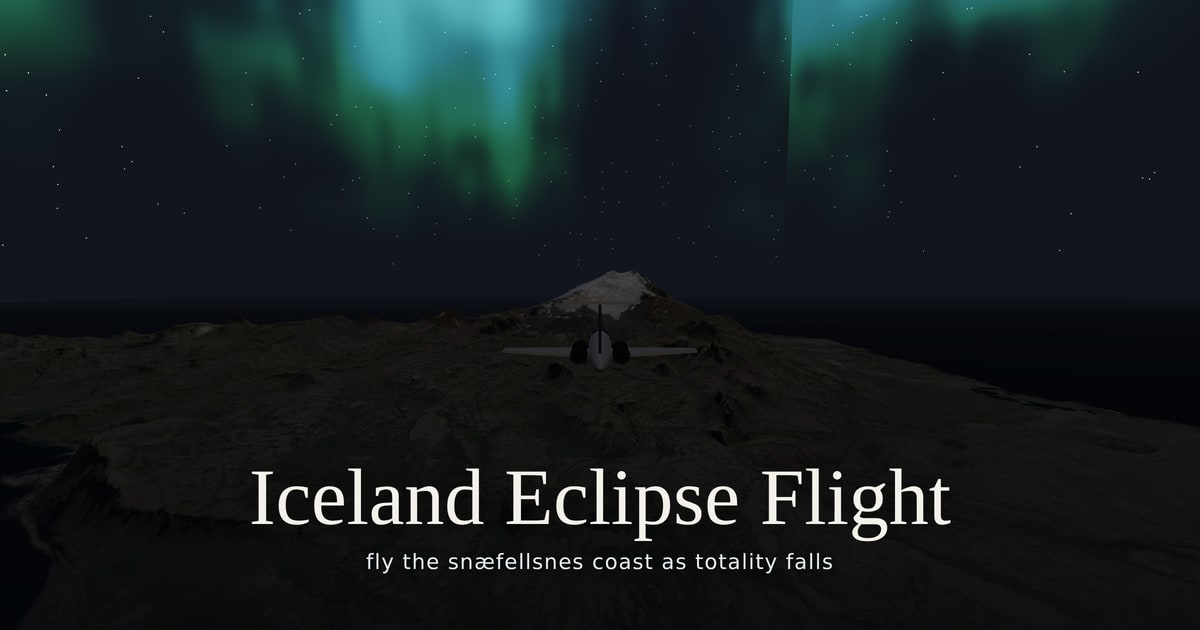
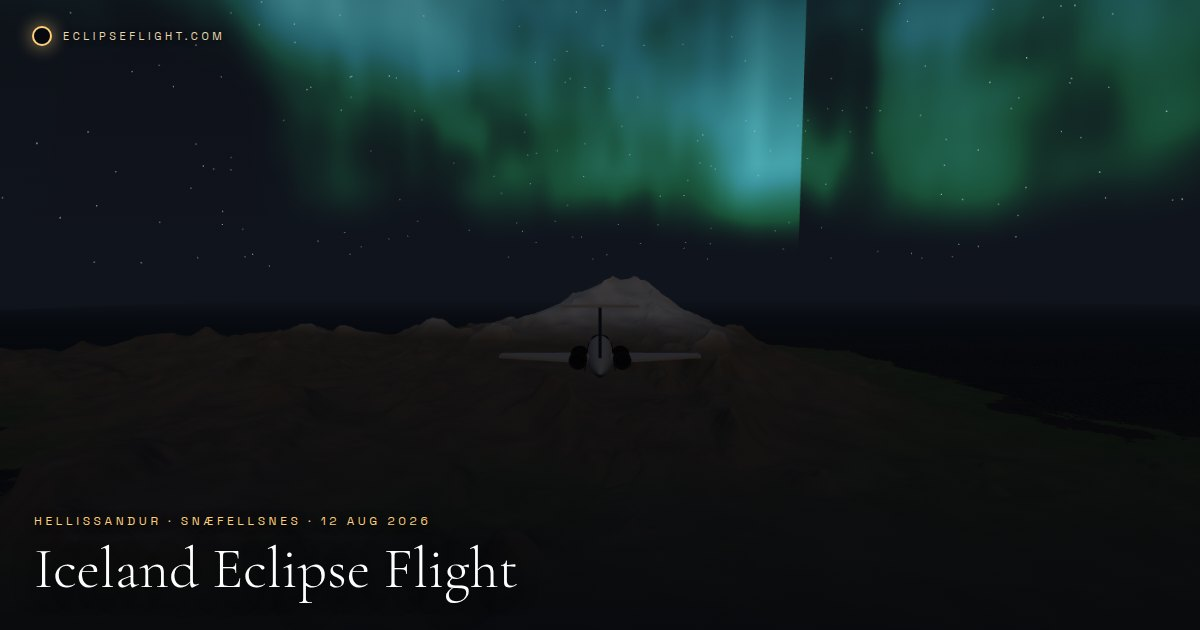
Cinematic og covers for root + all three sims
One consistent treatment (corona mark + ECLIPSEFLIGHT.COM kicker, gold location/date
line, serif title) over in-game totality renders captured from each sim:
- root: triptych — aurora jet / corona balloon / totality skier, 'Eclipse Flight'
  across the centre, FLY-DRIFT-CARVE date strip (meta repointed from the borrowed
  menu photo to /assets/og.jpg, with image dimensions)
- /iceland: jet toward Snaefellsjokull under the totality aurora (replaces the old
  June hero render)
- /egypt: hieroglyph balloon under the corona ring and 360-degree twilight glow
- /skiclipse: racer under the corona (same base as before, now titled to match)
Captures made headless with HUD hidden and the canvas minimap render pass no-opped
in throwaway harness copies; the sims themselves are untouched.

diff --git a/index.html b/index.html
@@ -10,11 +10,13 @@
 <meta property="og:title" content="Eclipse Flight — chase the shadow"/>
 <meta property="og:description" content="Three total solar eclipses, three machines: fly Iceland 2026, drift Luxor 2027, carve New Zealand 2028."/>
 <meta property="og:url" content="https://eclipseflight.com/"/>
-<meta property="og:image" content="https://eclipseflight.com/assets/menu/egypt.jpg"/>
+<meta property="og:image" content="https://eclipseflight.com/assets/og.jpg"/>
+<meta property="og:image:width" content="1200"/>
+<meta property="og:image:height" content="630"/>
 <meta name="twitter:card" content="summary_large_image"/>
 <meta name="twitter:title" content="Eclipse Flight — chase the shadow"/>
 <meta name="twitter:description" content="Three total solar eclipses, three machines: fly Iceland 2026, drift Luxor 2027, carve New Zealand 2028."/>
-<meta name="twitter:image" content="https://eclipseflight.com/assets/menu/egypt.jpg"/>
+<meta name="twitter:image" content="https://eclipseflight.com/assets/og.jpg"/>
 <style>
   @import url('https://fonts.googleapis.com/css2?family=Cormorant+Garamond:wght@300;400&family=Space+Grotesk:wght@300;400;500&display=swap');
   *{box-sizing:border-box}